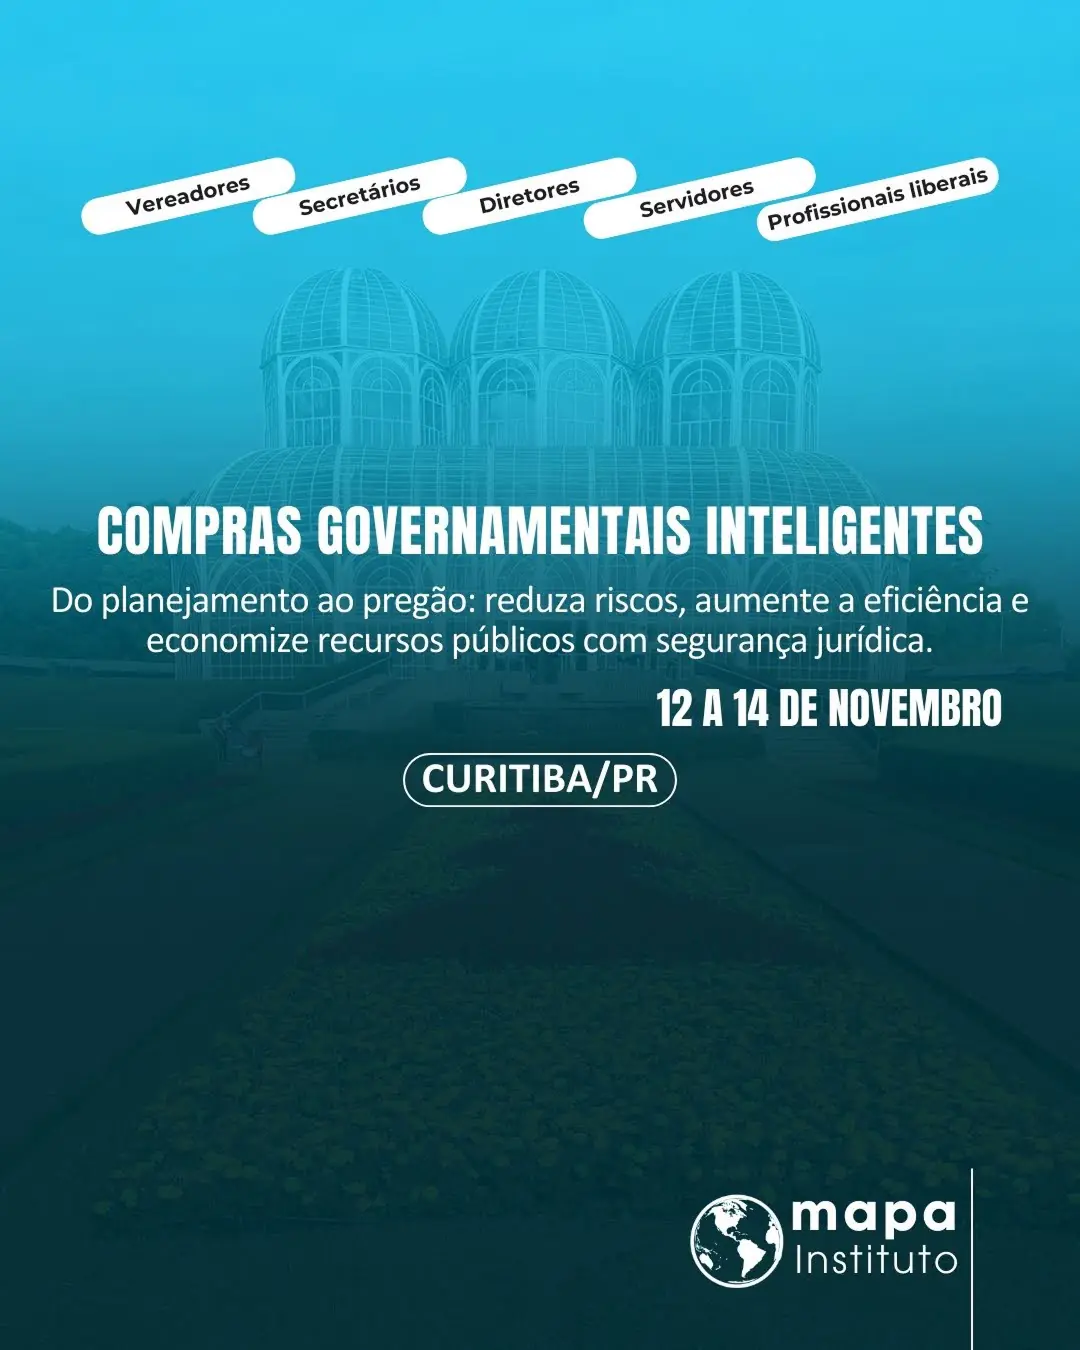
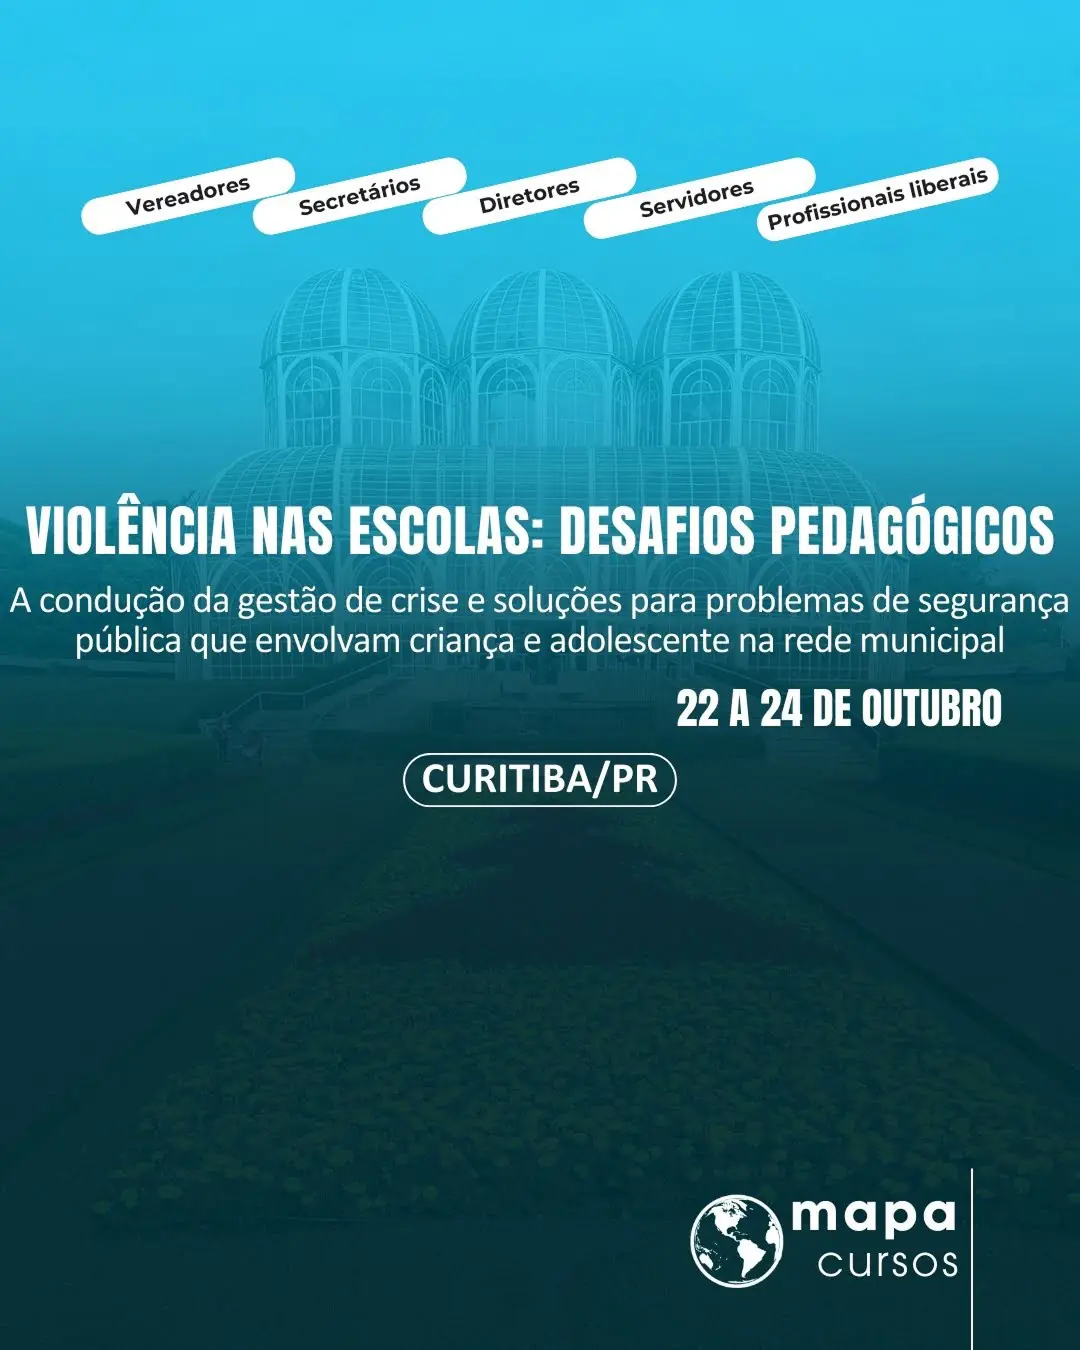
fix: Ajustes inseridos na estrutura dos cursos

Changed region(s): [[0.0, 0.3422, 1.0, 0.56], [0.7333, 0.9022, 0.8861, 0.9644]]

diff --git a/src/content/contentCursos.jsx b/src/content/contentCursos.jsx
@@ -1,9 +1,9 @@
-import imgCurso1 from "../assets/imgs/cursos/curso1.webp";
-import imgCurso2 from "../assets/imgs/cursos/curso2.webp";
-import imgCurso3 from "../assets/imgs/cursos/curso3.webp";
-import imgCursoAnterior1 from "../assets/imgs/cursos/cursoAnteriorHero1.webp";
-import imgCursoAnterior2 from "../assets/imgs/cursos/cursoAnteriorHero2.webp";
-import imgCursoAnterior3 from "../assets/imgs/cursos/cursoAnteriorHero3.webp";
+import curso4 from "../assets/imgs/cursos/curso4.webp";
+import curso5 from "../assets/imgs/cursos/curso5.webp";
+import curso6 from "../assets/imgs/cursos/curso6.webp";
+import curso1 from "../assets/imgs/cursos/curso1.webp";
+import curso2 from "../assets/imgs/cursos/curso2.webp";
+import curso3 from "../assets/imgs/cursos/curso3.webp";
 import bgImg from "../assets/imgs/hero/bgHeroLp01.webp";
 import logo from "../assets/imgs/logo/logo.png";
 import content, { infos } from "./content";
@@ -147,7 +147,37 @@ const cursosDataBase = {
   curso: {
     proximos: [
       {
-        id: "001",
+        id: 1,
+        data: "15 a 17 de Outubro de 2025",
+        hora: "",
+        titulo: "Prefeituras: Concurso público e PSS",
+        subtitulo:
+          "O estudo preliminar e os critérios legais para abertura dos procedimentos de contratação de funcionários.",
+        status: "A_Definir",
+        imgs: curso1,
+      },
+      {
+        id: 2,
+        data: "22 a 24 de Outubro de 2025",
+        hora: "",
+        titulo: "Violência nas escolas: Desafios pedagógicos",
+        subtitulo:
+          "A condução da gestão de crise e soluções para problemas de segurança pública que envolvam crianças e adolescentes na rede municipal.",
+        status: "ativo",
+        imgs: curso2,
+      },
+      {
+        id: 3,
+        data: "29 a 31 de Outubro de 2025",
+        hora: "",
+        titulo: "Reformas administrativas municipais",
+        subtitulo:
+          "A necessidade de atualização do ordenamento jurídico municipal diante dos avanços tecnológicos dos ambientes de trabalho e da gestão de serviços públicos.",
+        status: "ativo",
+        imgs: curso3,
+      },
+      {
+        id: 4,
         nome: "Primeiro Curso",
         data: "05 a 07 de Novembro de 2025",
         hora: "",
@@ -155,54 +185,10 @@ const cursosDataBase = {
         subtitulo:
           "Ferramentas práticas para gestores que querem motivar equipes, melhorar entregas e revolucionar a cultura organizacional.",
         status: "A_Definir",
-        rota: content.texts.links.ctaWhatsappCurso,
-        imgs: {
-          imgCard: imgCurso1,
-          imgHero: bgImg,
-        },
-        labelButton: "Inscreva-se agora!",
-        landingPage: {
-          programacao: {
-            icon: (
-              <svg
-                xmlns="http://www.w3.org/2000/svg"
-                width="24"
-                height="24"
-                viewBox="0 0 24 24"
-                fill="none"
-                stroke="currentColor"
-                stroke-width="2"
-                stroke-linecap="round"
-                stroke-linejoin="round"
-                class="lucide lucide-id-card"
-              >
-                <path d="M16 10h2" />
-                <path d="M16 14h2" />
-                <path d="M6.17 15a3 3 0 0 1 5.66 0" />
-                <circle cx="9" cy="11" r="2" />
-                <rect x="2" y="5" width="20" height="14" rx="2" />
-              </svg>
-            ),
-            titulo: (
-              <h1>
-                <span className="opacity-100 text-primary text-paragraph5">
-                  Dia 22/04 – Recepção e Credenciamento
-                </span>
-              </h1>
-            ),
-            subtitulo: (
-              <p>
-                <strong>15:00 às 17:00</strong>
-                <br />- Credenciamento e confirmação de inscrições <br /> -
-                Networking inicial com participantes
-              </p>
-            ),
-          },
-          inscricao: {},
-        },
+        imgs: curso4,
       },
       {
-        id: "002",
+        id: 5,
         nome: "Segundo Curso",
         data: "12 a 14 de Novembro de 2025",
         hora: "",
@@ -210,15 +196,10 @@ const cursosDataBase = {
         subtitulo:
           "Do planejamento ao pregão: reduza riscos, aumente a eficiência e economize recursos públicos com segurança jurídica.",
         status: "ativo",
-        rota: content.texts.links.ctaWhatsappCurso,
-        imgs: {
-          imgCard: imgCurso2,
-          imgHero: bgImg,
-        },
-        labelButton: "Inscreva-se agora!",
+        imgs: curso5,
       },
       {
-        id: "003",
+        id: 6,
         nome: "Terceiro Curso",
         data: "26 a 28 de Novembro de 2025",
         hora: "",
@@ -226,218 +207,21 @@ const cursosDataBase = {
         subtitulo:
           "Como planejar, executar e transformar políticas públicas mesmo com equipe enxuta e orçamento limitado.",
         status: "ativo",
-        rota: content.texts.links.ctaWhatsappCurso,
-        imgs: {
-          imgCard: imgCurso3,
-          imgHero: bgImg,
-        },
-        labelButton: "Inscreva-se agora!",
-        landingPage: {
-          programacao: {
-            icon: (
-              <svg
-                xmlns="http://www.w3.org/2000/svg"
-                width="24"
-                height="24"
-                viewBox="0 0 24 24"
-                fill="none"
-                stroke="currentColor"
-                stroke-width="2"
-                stroke-linecap="round"
-                stroke-linejoin="round"
-                class="lucide lucide-id-card"
-              >
-                <path d="M16 10h2" />
-                <path d="M16 14h2" />
-                <path d="M6.17 15a3 3 0 0 1 5.66 0" />
-                <circle cx="9" cy="11" r="2" />
-                <rect x="2" y="5" width="20" height="14" rx="2" />
-              </svg>
-            ),
-            titulo: (
-              <h1>
-                <span className="opacity-100 text-primary text-paragraph5">
-                  Dia 22/04 – Recepção e Credenciamento
-                </span>
-              </h1>
-            ),
-            subtitulo: (
-              <p>
-                <strong>15:00 às 17:00</strong>
-                <br />- Credenciamento e confirmação de inscrições <br /> -
-                Networking inicial com participantes
-              </p>
-            ),
-          },
-          inscricao: {
-            icon: (
-              <svg
-                xmlns="http://www.w3.org/2000/svg"
-                width="24"
-                height="24"
-                viewBox="0 0 24 24"
-                fill="none"
-                stroke="currentColor"
-                stroke-width="2"
-                stroke-linecap="round"
-                stroke-linejoin="round"
-                class="lucide lucide-plane"
-              >
-                <path d="M17.8 19.2 16 11l3.5-3.5C21 6 21.5 4 21 3c-1-.5-3 0-4.5 1.5L13 8 4.8 6.2c-.5-.1-.9.1-1.1.5l-.3.5c-.2.5-.1 1 .3 1.3L9 12l-2 3H4l-1 1 3 2 2 3 1-1v-3l3-2 3.5 5.3c.3.4.8.5 1.3.3l.5-.2c.4-.3.6-.7.5-1.2z" />
-              </svg>
-            ),
-            title: "Acadêmicos de universidades e faculdades",
-            valor: "R$200,00",
-            buttonLabel: "Inscrever-se",
-          },
-        },
+        imgs: curso6,
+      },
+      {
+        id: 7,
+        nome: "Segundo Curso",
+        data: "20 de Agosto de 2025",
+        hora: "",
+        titulo: "Compras Governamentais Inteligentes",
+        subtitulo:
+          "Do planejamento ao pregão: reduza riscos, aumente a eficiência e economize recursos públicos com segurança jurídica.",
+        status: "ativo",
+        imgs: curso6,
       },
     ],
-    ministrados: [
-      {
-        id: "001",
-        data: "15 a 17 de Outubro de 2025",
-        hora: "",
-        titulo: "Prefeituras: Concurso público e PSS",
-        subtitulo:
-          "O estudo preliminar e os critérios legais para abertura dos procedimentos de contratação de funcionários.",
-        status: "A_Definir",
-        rota: content.texts.links.ctaWhatsappCurso,
-        imgs: {
-          imgCard: imgCursoAnterior1,
-          imgHero: bgImg,
-        },
-        labelButton: "Inscreva-se agora!",
-        landingPage: {
-          programacao: {
-            icon: (
-              <svg
-                xmlns="http://www.w3.org/2000/svg"
-                width="24"
-                height="24"
-                viewBox="0 0 24 24"
-                fill="none"
-                stroke="currentColor"
-                stroke-width="2"
-                stroke-linecap="round"
-                stroke-linejoin="round"
-                class="lucide lucide-id-card"
-              >
-                <path d="M16 10h2" />
-                <path d="M16 14h2" />
-                <path d="M6.17 15a3 3 0 0 1 5.66 0" />
-                <circle cx="9" cy="11" r="2" />
-                <rect x="2" y="5" width="20" height="14" rx="2" />
-              </svg>
-            ),
-            titulo: (
-              <h1>
-                <span className="opacity-100 text-primary text-paragraph5">
-                  Dia 22/04 – Recepção e Credenciamento
-                </span>
-              </h1>
-            ),
-            subtitulo: (
-              <p>
-                <strong>15:00 às 17:00</strong>
-                <br />- Credenciamento e confirmação de inscrições <br /> -
-                Networking inicial com participantes
-              </p>
-            ),
-          },
-          inscricao: {},
-        },
-      },
-      {
-        id: "002",
-        data: "22 a 24 de Outubro de 2025",
-        hora: "",
-        titulo: "Violência nas escolas: Desafios pedagógicos",
-        subtitulo:
-          "A condução da gestão de crise e soluções para problemas de segurança pública que envolvam crianças e adolescentes na rede municipal.",
-        status: "ativo",
-        rota: content.texts.links.ctaWhatsappCurso,
-        imgs: {
-          imgCard: imgCursoAnterior2,
-          imgHero: bgImg,
-        },
-        labelButton: "Inscreva-se agora!",
-      },
-      {
-        id: "003",
-        data: "29 a 31 de Outubro de 2025",
-        hora: "",
-        titulo: "Reformas administrativas municipais",
-        subtitulo:
-          "A necessidade de atualização do ordenamento jurídico municipal diante dos avanços tecnológicos dos ambientes de trabalho e da gestão de serviços públicos.",
-        status: "ativo",
-        rota: content.texts.links.ctaWhatsappCurso,
-        imgs: {
-          imgCard: imgCursoAnterior3,
-          imgHero: bgImg,
-        },
-        labelButton: "Inscreva-se agora!",
-        landingPage: {
-          programacao: {
-            icon: (
-              <svg
-                xmlns="http://www.w3.org/2000/svg"
-                width="24"
-                height="24"
-                viewBox="0 0 24 24"
-                fill="none"
-                stroke="currentColor"
-                stroke-width="2"
-                stroke-linecap="round"
-                stroke-linejoin="round"
-                class="lucide lucide-id-card"
-              >
-                <path d="M16 10h2" />
-                <path d="M16 14h2" />
-                <path d="M6.17 15a3 3 0 0 1 5.66 0" />
-                <circle cx="9" cy="11" r="2" />
-                <rect x="2" y="5" width="20" height="14" rx="2" />
-              </svg>
-            ),
-            titulo: (
-              <h1>
-                <span className="opacity-100 text-primary text-paragraph5">
-                  Dia 22/04 – Recepção e Credenciamento
-                </span>
-              </h1>
-            ),
-            subtitulo: (
-              <p>
-                <strong>15:00 às 17:00</strong>
-                <br />- Credenciamento e confirmação de inscrições <br /> -
-                Networking inicial com participantes
-              </p>
-            ),
-          },
-          inscricao: {
-            icon: (
-              <svg
-                xmlns="http://www.w3.org/2000/svg"
-                width="24"
-                height="24"
-                viewBox="0 0 24 24"
-                fill="none"
-                stroke="currentColor"
-                stroke-width="2"
-                stroke-linecap="round"
-                stroke-linejoin="round"
-                class="lucide lucide-plane"
-              >
-                <path d="M17.8 19.2 16 11l3.5-3.5C21 6 21.5 4 21 3c-1-.5-3 0-4.5 1.5L13 8 4.8 6.2c-.5-.1-.9.1-1.1.5l-.3.5c-.2.5-.1 1 .3 1.3L9 12l-2 3H4l-1 1 3 2 2 3 1-1v-3l3-2 3.5 5.3c.3.4.8.5 1.3.3l.5-.2c.4-.3.6-.7.5-1.2z" />
-              </svg>
-            ),
-            title: "Acadêmicos de universidades e faculdades",
-            valor: "R$200,00",
-            buttonLabel: "Inscrever-se",
-          },
-        },
-      },
-    ],
+    ministrados: [],
   },
   landingPage: {
     programacao: {

diff --git a/src/components/cards/CardHero.jsx b/src/components/cards/CardHero.jsx
@@ -27,7 +27,7 @@ export default function CardHeroCursos({
   return (
     <MotionDivDownToUp className="flex justify-center w-fit m-auto">
       <div
-        className={`w-[90%] tablet1:max-w-[300px] desktop2:max-w-[360px] bg-white flex py-3 px-2 phone2:py-4 phone2:px-3 desktop1:py-3 desktop1:px-2 shadow-xl rounded-[10px] justify-start items-start ${className}`}
+        className={`w-[90%] tablet1:max-w-[300px] desktop2:max-w-[360px] bg-white flex p-5 shadow-xl rounded-[10px] justify-start items-start ${className}`}
       >
         <div className="flex flex-col gap-4 w-full desktop2:p-[4px]">
           <img className="rounded-[10px]" src={imageUrl} alt={title} />

diff --git a/src/components/sections/ProximosCursos.jsx b/src/components/sections/ProximosCursos.jsx
@@ -79,7 +79,7 @@ export default function ProximosCursos() {
                 {proximosCursos.map((card) => (
                   <CardHeroCursos
                     key={card.id}
-                    imageUrl={card.imgs.imgCard}
+                    imageUrl={card.imgs}
                     title={card.titulo}
                     date={card.data}
                     hora={card.hora}

diff --git a/src/components/sections/CursosAnteriores.jsx b/src/components/sections/CursosAnteriores.jsx
@@ -60,7 +60,7 @@ export default function CursosMinistrados() {
             {ministradosOrdenados.map((card) => (
               <CardHeroCursos
                 key={card.id}
-                imageUrl={card.imgs.imgCard}
+                imageUrl={card.imgs}
                 title={card.titulo}
                 date={card.data}
                 hora={card.hora}
